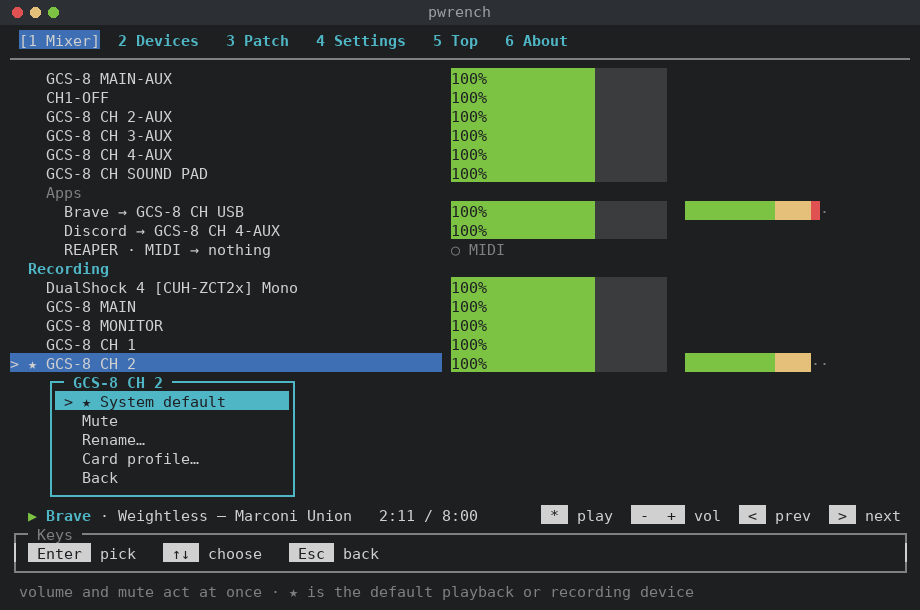
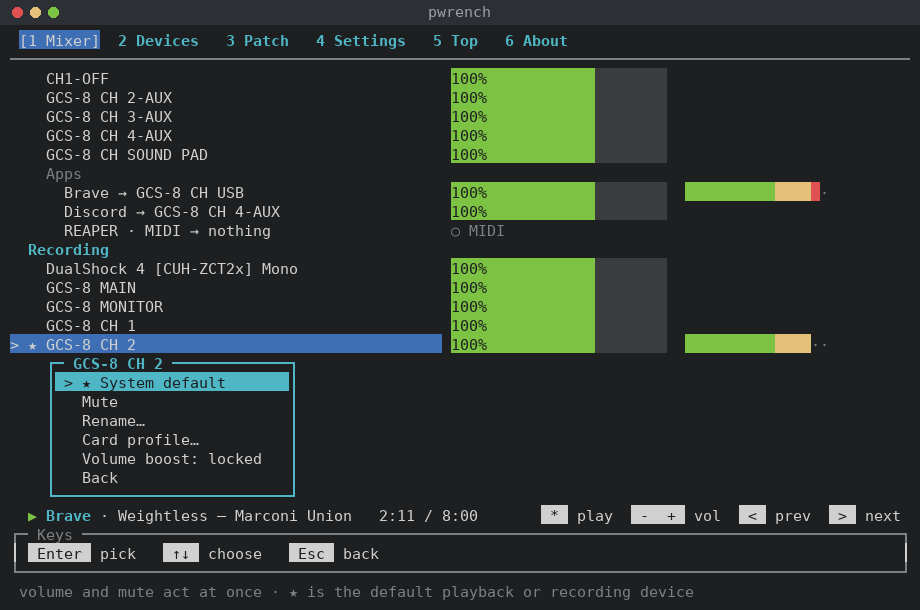
Guide pictures: redrawn for the band and boost row; new shot of the 100% popover

Changed region(s): [[0.0, 0.218, 0.8826, 0.7787], [0.487, 0.2492, 0.913, 0.4672], [0.0609, 0.1246, 0.1826, 0.1869]]

diff --git a/tools/screenshots.py b/tools/screenshots.py
@@ -262,6 +262,8 @@ def shots():
                                  mixer=m, media=MEDIA)
     st, _ = pc.handle_key(pc.UIState(tab="mixer", mix_cursor=mix_at(m, "GCS-8 CH 2", "recording")), "enter", CUR, mixer=m)
     yield "mixer-menu", frame(st, mixer=m, media=MEDIA)
+    st, _ = pc.handle_key(pc.UIState(tab="mixer", mix_cursor=mix_at(m, "GCS-8 CH 2", "recording")), "right", CUR, mixer=m)
+    yield "mixer-boost", frame(st, mixer=m, media=MEDIA)  # → at 100%: the volume popover
     st.mix_menu = None
     yield "mixer-rename", prompt(frame(st, mixer=m, media=MEDIA), "new name for GCS-8 CH 2 (empty restores the default): Mic")
 

diff --git a/docs/guide.md b/docs/guide.md
@@ -51,6 +51,8 @@ The volume % sits inside the bar. Green is up to 100%, red past it, grey when mu
 at 100% → opens a box: **Go louder** unlocks that channel until it's back under 100%, **Don't ask again**
 unlocks it for good, and **Cancel** (where the cursor starts) leaves it. The channel menu's **Volume boost**
 row locks or unlocks it any time.
+
+![The box at 100%](guide/mixer-boost.png)
 The media bar's `+` stops at 100%. On the command line, `pwrench devices volume DEV +5%` goes up to 150%. The meter to the
 right shows the live level of running channels (yellow past −18 dB, red past −6 dB) with a short peak
 hold.
